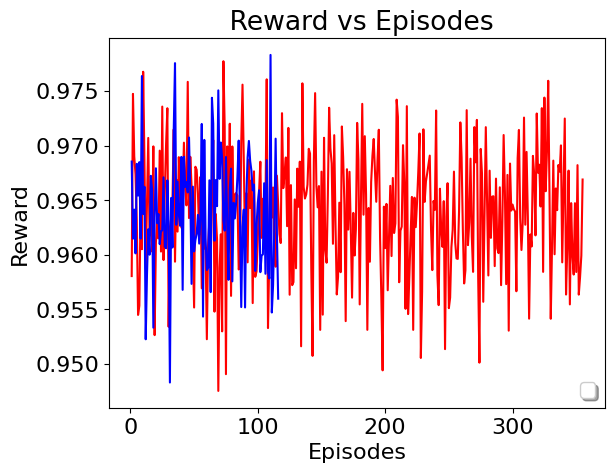
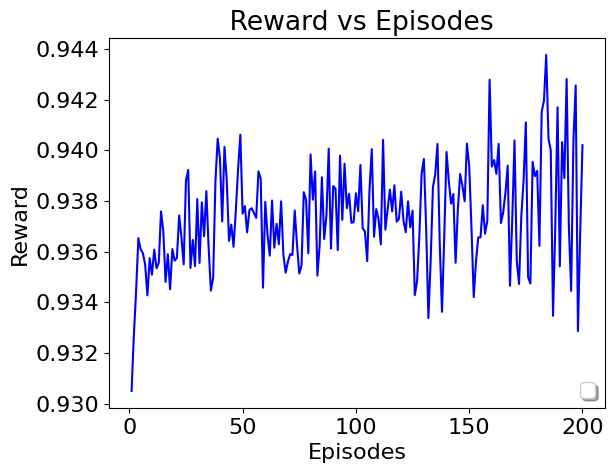
still testing now

diff --git a/Deep_QLearning_5G-master/view_results.py b/Deep_QLearning_5G-master/view_results.py
@@ -33,7 +33,10 @@ arrival_rate = "20"
 
 
 
-lost_r= [0.9685530744008225, 0.9614806783345682, 0.9641475740137646, 0.9601334401741869, 0.9683471364149451, 0.9654322357947753, 0.9685019419336854, 0.9614894456389519, 0.976397417444294, 0.9637358804546621, 0.9662393399261556, 0.9522540021784195, 0.9581715450049152, 0.9623470092011746, 0.9600146586290524, 0.9672471093554955, 0.9659797645575292, 0.9533208486779284, 0.9635349067279264, 0.9679367454403656, 0.9629044186807797, 0.963745017877416, 0.9609812230535408, 0.9621636274120198, 0.9622459901812522, 0.9671080720497194, 0.9607539586815321, 0.9606019853219597, 0.9668292842111431, 0.9629849184507706, 0.9482888905194478, 0.9652172897202544, 0.9606705405270763, 0.971437969574685, 0.9775822235396063, 0.9627549129067505, 0.9667167808769467, 0.963691253611363, 0.9626658019713241, 0.9689835233129882, 0.9567862355275405, 0.9689917478358401, 0.9662264991683405, 0.9666781046559003, 0.9657255804646053, 0.9707603026543892, 0.9656203405953406, 0.9573353322051411, 0.9662537089156696, 0.9603139957681971, 0.9613573401326122, 0.9619195638155803, 0.9636664671318547, 0.9610306442450989, 0.9636511986025751, 0.9720033448124393, 0.9543326340029611, 0.9705417007316591, 0.9615162678382629, 0.9586048800556629, 0.9588158720011237, 0.9668349810137291, 0.9565795007306692, 0.9744044598275626, 0.9720412262673508, 0.9612911524886995, 0.9668567645614902, 0.964467297961609, 0.9750830828515825, 0.9669722565655855, 0.9703001279698055, 0.9688440500662707, 0.9631605191469346, 0.9622199276684156, 0.968972581433355, 0.9629069967950223, 0.9577068155348935, 0.9659662272390073, 0.9679045465618716, 0.9575660081734186, 0.9647677796530183, 0.9633403055089154, 0.9648140593011786, 0.9671515589584991, 0.970473530616824, 0.9632862549402144, 0.9552110204763683, 0.9626159232912712, 0.964148710961017, 0.9551732010505216, 0.9653588970993463, 0.9689408942562816, 0.9704457963745637, 0.9686204943142943, 0.967704460974591, 0.965912470510365, 0.9664468937366669, 0.9585239357030851, 0.9626389015536462, 0.9647634889476766, 0.9659194077459646, 0.9584104025250718, 0.9599355299982916, 0.9600401526605721, 0.9665685929572558, 0.9582631843517679, 0.9686801666139828, 0.9584512143198806, 0.9578367980853245, 0.9783355169983157, 0.9547104486438603, 0.9572375100018656, 0.9626318654936781, 0.9706538144246204, 0.9619451000518685, 0.9559799130495336]
+lost_r=  [0.9304973379714798, 0.9326615169636817, 0.9344458902331596, 0.9365302749196225, 0.9360860893850542, 0.9359304979721189, 0.9354802647121231, 0.9342716121145745, 0.935736684796646, 0.9350850908356689, 0.9360732531260731, 0.935337101127706, 0.9355543835599912, 0.9375861552496878, 0.9368143536789817, 0.9348028869064827, 0.9358925618033783, 0.934511052715135, 0.9360970617161212, 0.9356405831651334, 0.9357434464604539, 0.937425153221252, 0.9365676873381733, 0.9354937085789378, 0.9387983589583488, 0.9392207950102066, 0.9353505429554397, 0.9364568902152253, 0.9354250417131783, 0.9380682895213799, 0.9355494635892955, 0.9379417948729036, 0.9366044066501401, 0.9383840727600016, 0.9361787398235749, 0.934455151538237, 0.9349574692556127, 0.9387408621960611, 0.9404572650373304, 0.9396832058264784, 0.9371878353073677, 0.9401312794089912, 0.9388228454918168, 0.9364194883234377, 0.9370624302821932, 0.9361890035592705, 0.9375941316530446, 0.939252706487186, 0.9406133134855739, 0.9375001557293837, 0.9377936981405426, 0.9367562249913168, 0.9376305522113244, 0.9377107165156934, 0.9375164702836808, 0.9373277897682222, 0.9391671856796396, 0.9388707461055819, 0.9345719846860632, 0.9379603119475949, 0.9366466497509879, 0.9358406213351275, 0.9380137136195017, 0.9361525858697826, 0.9370945400346494, 0.9362909832706513, 0.9379834462854238, 0.9358715907328521, 0.9351662814334329, 0.935604287813624, 0.9358981595117418, 0.935865952986995, 0.9376175962836509, 0.9362991301966758, 0.9351317148055324, 0.9354467916167342, 0.9383438535970656, 0.9380411256735137, 0.9359334903731336, 0.9398309201324443, 0.9380480934849913, 0.9391616215297092, 0.9350494707944798, 0.9362485512485081, 0.9389309629512498, 0.9364941652132377, 0.9374288087032322, 0.940061865304008, 0.9361158905218238, 0.9385869525565724, 0.9384809322475903, 0.9360564402561464, 0.9397863386846287, 0.9372521461519908, 0.9394668674742743, 0.9377095759830416, 0.9382774277447475, 0.9371353539089771, 0.9371572761609374, 0.9383002277731738, 0.9375912180130935, 0.9394173188091215, 0.9369215091217493, 0.9367824362753193, 0.9356205337608535, 0.9384334284592428, 0.9400422007201176, 0.9365861072073419, 0.937672629996776, 0.9372814992584073, 0.9362813050581212, 0.9404072432933809, 0.936865677662892, 0.9376365674214058, 0.9384411404544797, 0.9375849086710679, 0.9386163525025749, 0.9371779925039695, 0.9372881585423475, 0.9383597184552199, 0.9372249573285344, 0.9367632739050418, 0.9379839024483299, 0.9369552078882013, 0.9376109022847875, 0.93427989048321, 0.934828301583236, 0.936593159721093, 0.939084571134525, 0.9396532201406407, 0.9369488494904762, 0.933374516617679, 0.9356470490393841, 0.9385421985445637, 0.9390418430734189, 0.9402475873896714, 0.9363467315204925, 0.9336196205161996, 0.9366091466350411, 0.9399300234024217, 0.938793277291905, 0.9378918278199359, 0.9382678141174041, 0.9355580576971606, 0.9376605818010629, 0.9390595788273917, 0.9386024234973254, 0.9379833563125216, 0.9402617334903087, 0.939384227778481, 0.9369587834207052, 0.9341999610289344, 0.9356113076203544, 0.9365584509637638, 0.9365559584709712, 0.937827949039107, 0.9367049218880175, 0.9372159132250716, 0.9427838039067238, 0.9393530570347149, 0.9396139340999637, 0.9390670459384226, 0.9402508149299914, 0.937127320225831, 0.9375423204822606, 0.9383215463942044, 0.9393906474048477, 0.9346470116685749, 0.937262211856443, 0.9403855019557367, 0.9356246133574787, 0.934717252917285, 0.9373836587130573, 0.938795019118834, 0.9410987345309861, 0.93498932164913, 0.9347390807266356, 0.939537892653808, 0.9389766710114574, 0.9391854969730933, 0.9362233490061015, 0.9415272987542549, 0.9419572816482851, 0.9437615383329081, 0.9404477932760893, 0.9400000062462274, 0.9334612505068965, 0.9370422825105665, 0.9416941273725153, 0.9354182145854242, 0.9403172466529692, 0.9388989120811848, 0.9428111532277669, 0.936947614163685, 0.9344476722800639, 0.9403859313074138, 0.9425572343897609, 0.9328552318699002, 0.9367885799845668, 0.9401975302460472]
+
+
+
 
 
 lost_r_old = [0.9580515766348305, 0.9747608835264678, 0.9690392264387427, 0.9673748137090085, 0.9631347996660501, 0.9544880881423876, 0.9553358837484024, 0.9647164601581008, 0.9605163249912212, 0.976791630831353, 0.9687767671162291, 0.9587368484093538, 0.9647518695378375, 0.9707206728430783, 0.9617602255096621, 0.963603982287206, 0.9603031415302363, 0.9699469503270337, 0.9526345885982311, 0.9611070457681389, 0.9630708115401595, 0.9615108748251162, 0.9695549489016265, 0.9603005835891765, 0.9735964022631781, 0.9595204166602459, 0.9657951080451124, 0.9701460301287002, 0.9734447379526089, 0.9533986739393878, 0.9624291061371929, 0.9633356990084094, 0.9647917503002416, 0.9715036815805184, 0.959371341406969, 0.9669004321850615, 0.9621294672797742, 0.9689572430582499, 0.9653432175462648, 0.9624951458905484, 0.9653602188295077, 0.9702868107711559, 0.9661242243131944, 0.9645374912404591, 0.9758657079428082, 0.9633735064772626, 0.9689904014091739, 0.9662934036934673, 0.9608386241574975, 0.9551675550194116, 0.9680806573777613, 0.9678033644331824, 0.9656597600475204, 0.961860757950783, 0.9671488152942893, 0.9569334285663104, 0.964589879858642, 0.9605962603152574, 0.9605771160929696, 0.952259137339851, 0.9608755210659922, 0.9631861914959865, 0.9592478688464009, 0.9662808668909998, 0.9705211514482484, 0.9547881639116653, 0.963744874196037, 0.961417589118465, 0.9475175306473225, 0.9588076891570475, 0.9618869806316463, 0.9529810313079865, 0.9777578194536443, 0.9718011350015043, 0.9490542209985549, 0.9699426119117294, 0.9629849785411034, 0.9720240198952524, 0.9562349669171674, 0.9699391558769925, 0.9634571869414146, 0.9655231231174229, 0.9656732969190794, 0.9654257011254787, 0.9586558564016481, 0.9589239051928234, 0.9702739383042378, 0.9756078585375046, 0.968627542980699, 0.9607133795713079, 0.9656503242031834, 0.9593112293093637, 0.9687304720651452, 0.9642936511281285, 0.9668250589703354, 0.9555729642019177, 0.9676557839484229, 0.9579826871384524, 0.9584744961838767, 0.9613921942200006, 0.9657804121073963, 0.9685386894529238, 0.9615544908493088, 0.9651466857874805, 0.9620308107136378, 0.9642400526683723, 0.9760972635504345, 0.9532845033552939, 0.9595852611558532, 0.9684593696789623, 0.9634139833068598, 0.9661742738469498, 0.9603373973644755, 0.9589089117933066, 0.9672630083558575, 0.9645756649459837, 0.9619106877615704, 0.9610827775703776, 0.9729918901807201, 0.9661185341161173, 0.967385143219668, 0.9689293968956452, 0.9626255794880416, 0.9716414731886029, 0.9563410774476264, 0.966395007364635, 0.9572180942949515, 0.9574991723465386, 0.9650815299093956, 0.958768252073955, 0.967905060057933, 0.9644083826076216, 0.9685456466887477, 0.9516130160892825, 0.9757294970039425, 0.9662354924226417, 0.9651618375402992, 0.9655374306174277, 0.9664337982882925, 0.9697251925080316, 0.9692936258510518, 0.9586216521948956, 0.9507310496304743, 0.9685846643317215, 0.9748323670588105, 0.9662870582817786, 0.9643579330868459, 0.9663060931440903, 0.9531169040005573, 0.9676267785545016, 0.9545138116663994, 0.9707360387248836, 0.9604362714289809, 0.9592754840852555, 0.9655027812068695, 0.9734914933037964, 0.9697608697246398, 0.9683873449008786, 0.9610126735966988, 0.9709747238010438, 0.9628712352168025, 0.956366924331321, 0.957978674069165, 0.9647837110362505, 0.9584070037981933, 0.9717743538063806, 0.9689709515657282, 0.9645743415797053, 0.9539187640615022, 0.9678521690504319, 0.9623170327842309, 0.9676154343571888, 0.9624012165322348, 0.9560732748946662, 0.9638467299596367, 0.9599386515379021, 0.962343954591179, 0.9721001012543039, 0.9686954434895613, 0.9554518090205267, 0.965174179172578, 0.9738480888985888, 0.9636804243550118, 0.970881877375997, 0.9655286403331969, 0.9531198670702093, 0.9642952894389446, 0.9593666276585702, 0.9666858097769591, 0.9690907982053103, 0.9706270672298865, 0.9676139659586914, 0.9648660666930097, 0.9687260894660099, 0.9714721979290459, 0.9614993397263084, 0.9560632075379765, 0.9494050885172567, 0.964418859859236, 0.9606175666604326, 0.9646713331301944, 0.9567496153104135, 0.9613637530622549, 0.966329824814684, 0.9598870056115915, 0.9670485509062349, 0.9619997523620926, 0.9628807450440718, 0.974232527639723, 0.9726447643087469, 0.9574851218743311, 0.9622187494299032, 0.9625888934588129, 0.9700586474215928, 0.9666170961204289, 0.9550463805584427, 0.9736344049897493, 0.9545659213100359, 0.958086658192746, 0.9619376897194042, 0.9653097676595691, 0.9531180651868814, 0.9652447615516021, 0.9625373889531187, 0.9647750319976567, 0.9676380174179926, 0.9711295651216727, 0.9505409391988181, 0.9566143286665897, 0.9715120585055305, 0.964856405819361, 0.9667368236673424, 0.9674772926996014, 0.9682970382441503, 0.9690988109614727, 0.962379018333107, 0.958598843999302, 0.964938296685491, 0.9641201377205318, 0.9732373280800858, 0.9581376683965408, 0.9553862688120711, 0.966063754666362, 0.962206654422947, 0.9607277537027294, 0.96492336880141, 0.9513502711142924, 0.963475521429302, 0.9665707559511078, 0.955110090595176, 0.9560778118421505, 0.960701271061354, 0.9622925344485195, 0.9676318556479873, 0.9611257019590673, 0.9596677633770772, 0.9596279184427841, 0.9640219258160674, 0.9721457326409597, 0.9689144178875272, 0.9622229670075858, 0.9573752628987968, 0.9585773528782756, 0.9732688548889169, 0.9608915273867502, 0.9629560001292666, 0.9688183456073335, 0.9617051725986553, 0.958436850023663, 0.9717148227876502, 0.9684853686388857, 0.9723773008511059, 0.9580402436050087, 0.9501097670160569, 0.9697153588055707, 0.967458128996464, 0.9556927223349209, 0.9636750818378214, 0.9717104435321093, 0.964856249556161, 0.9581072565146296, 0.96771949527079, 0.9615538856729136, 0.9653393874559906, 0.9653744573230455, 0.958963824707425, 0.9669901289967051, 0.9605981223622283, 0.9601578747109764, 0.9661931268422989, 0.9572180803108923, 0.9630737518253416, 0.9709891272245, 0.9657598654824331, 0.9573129112259611, 0.9673292459125836, 0.9530462045794479, 0.9683718869690762, 0.964063356415534, 0.9646108368701073, 0.9641816150138828, 0.9639686698583247, 0.9566591992814156, 0.9688598818663794, 0.9714538419566939, 0.9634009985615114, 0.960443728457403, 0.9629736079256934, 0.9725889804523133, 0.9627627357254854, 0.9694401539403887, 0.9635172156752864, 0.9541455342374487, 0.9618673764395952, 0.9607675343671602, 0.9690753882558961, 0.9673633753748807, 0.9617832438519038, 0.9729628213524116, 0.9675305906293417, 0.9682664224549482, 0.9644317813237543, 0.973453877830508, 0.9584371707781035, 0.9744229872685672, 0.965833349328494, 0.9694834532452085, 0.9759638966932257, 0.9656065108058154, 0.9541358760968323, 0.9607950493343813, 0.9686403516802145, 0.9600517270654255, 0.966089613878813, 0.9640984610629442, 0.9682391029802876, 0.9676331997540766, 0.9700386294034613, 0.9593098377349741, 0.9658130190012773, 0.9725009101878274, 0.9563584380453558, 0.9608128172532512, 0.9677240008585297, 0.9554529780839971, 0.9647428590645464, 0.9599803206952322, 0.9581914343887293, 0.9647356693595022, 0.9584262841377578, 0.9682255304056165, 0.9563501974478172, 0.9579584862936181, 0.9599293215043697, 0.9669073603426803]
@@ -53,7 +56,7 @@ for i in range(355):
    x.append(i+1)
 
 
-for i in range(116):
+for i in range(200):
     y.append(i+1)
 # Profit
 
@@ -64,7 +67,7 @@ lost_r_old_2 =[]
 
 
 
-plt.errorbar(x,lost_r_old,fmt="-", color="red",ecolor="lightgray",capsize=2)
+#plt.errorbar(x,lost_r_old,fmt="-", color="red",ecolor="lightgray",capsize=2)
 plt.errorbar(y,lost_r,fmt="-", color="blue",ecolor="lightgray",capsize=2)
 
 

diff --git a/Deep_QLearning_5G-master/main_deepsara.py b/Deep_QLearning_5G-master/main_deepsara.py
@@ -69,7 +69,7 @@ agente = None
 
 
 #RL-specific parameters 
-episodes = 1 #240##350
+episodes = 400 #240##350
 
 
 
@@ -604,7 +604,7 @@ def func_arrival(c,evt): #NSL arrival, we will treate the one URLLC request arri
                 last_reward = r
 
 
-        if sim.nb_steps == 600:
+        """if sim.nb_steps == 600:
 
             #f = open("deepsara_"+ "_10BA_300epi_run-time4.txt","a+")
             episode_profit = sum(sim.list_profit) / len(sim.list_profit) 
@@ -633,7 +633,7 @@ def func_arrival(c,evt): #NSL arrival, we will treate the one URLLC request arri
             sim.terminate_events =0
             sim.list_profit =[]
             sim.list_profit_r2c =[]
-            sim.list_profit_reability =[]
+            sim.list_profit_reability =[]"""
 
      
        
@@ -818,11 +818,11 @@ def main():
                 centralized_initial = controller.substrate.graph["centralized_cpu"]
                 bw_initial = controller.substrate.graph["bw"]
 
-                controller.simulation.set_run_till(1600)   ## set the run_till variable of SIm to 15, the end of the simulatin is after 15 time units
+                controller.simulation.set_run_till(4)   ## set the run_till variable of SIm to 15, the end of the simulatin is after 15 time units
                                                         ## initially was 15
                 prepare_sim(controller.simulation)   ## creates the arrival events and the twindow_end event to prepare the environment          
                 controller.run()    ## runs all the events of the list one by one, here we execute the run of the class SIm, and a function for each event  
-                """episode_profit = sum(controller.simulation.list_profit) / len(controller.simulation.list_profit) 
+                episode_profit = sum(controller.simulation.list_profit) / len(controller.simulation.list_profit) 
                 episode_profit_r2c = sum(controller.simulation.list_profit_r2c) / len(controller.simulation.list_profit_r2c) 
                 episode_profit_reability = sum(controller.simulation.list_profit_reability) / len(controller.simulation.list_profit_reability) 
  
@@ -859,12 +859,10 @@ def main():
                 list_acceptance_ratio.append((controller.simulation.accepted_reqs/ controller.simulation.attended_reqs)*100)
                 list_epi_profit.append(episode_profit)
                 list_epi_r2c_profit.append(episode_profit_r2c)
-                list_epi_reability_profit.append(episode_profit_reability)"""
+                list_epi_reability_profit.append(episode_profit_reability)
 
 
-
-
-              
+     
 
         f = open("Results_10BA_300epi_run-time6.txt","a+")
         f.write("attended req "+  str(list_attended_req)+"\n\n")
